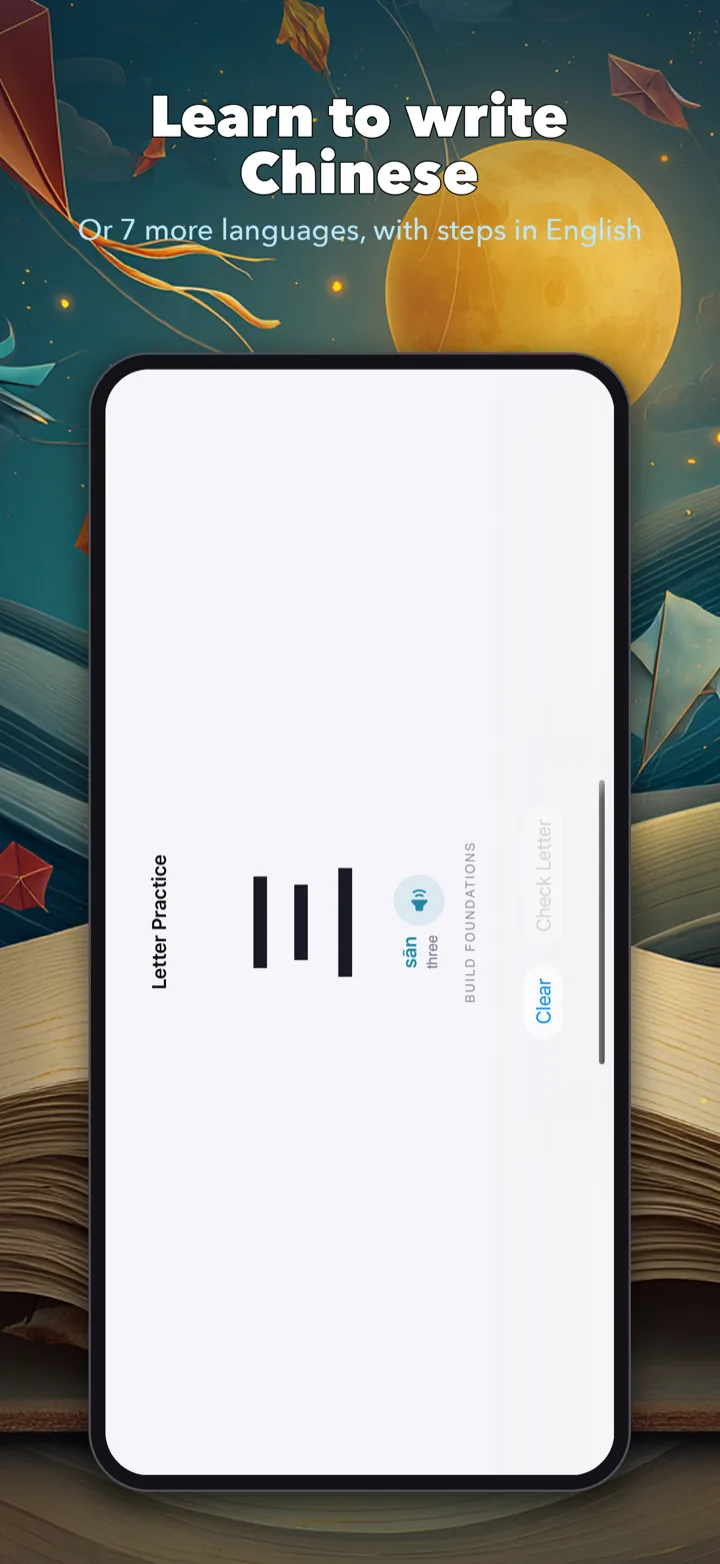
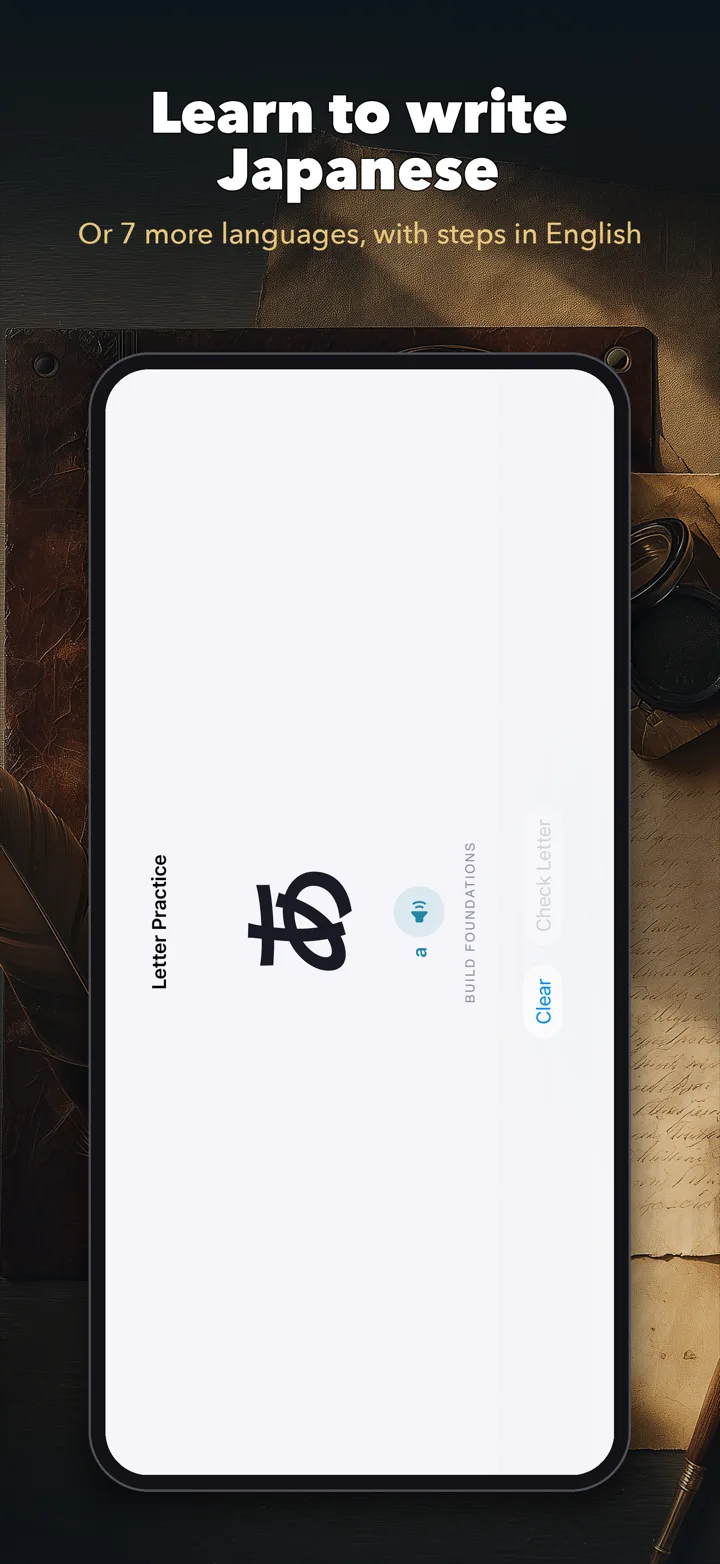
Inkla: English and German pages lead with Japanese (1.4.0 slot-1 store shots, alts, Japanese before Chinese in meta and search phrases)

diff --git a/de/apps/penlicence/index.html b/de/apps/penlicence/index.html
@@ -18,13 +18,13 @@
   <link rel="alternate" hreflang="zh-CN" href="https://bfgapps.co/zh-CN/apps/penlicence/">
   <link rel="alternate" hreflang="x-default" href="https://bfgapps.co/apps/penlicence/">
   <meta property="og:title" content="Inkla — Handschrift üben in 8 Sprachen">
-  <meta property="og:description" content="Buchstaben, Wörter und Sätze mit Feedback nach jedem Versuch. Geübt wird auf Deutsch, Englisch, Französisch, Spanisch, Rumänisch, in Hiragana, auf Chinesisch oder Hindi. Auf dem Gerät, keine Konten, keine Werbung.">
+  <meta property="og:description" content="Buchstaben, Wörter und Sätze mit Feedback nach jedem Versuch. Geübt wird auf Deutsch, Englisch, Französisch, Spanisch, Rumänisch, in japanischen Hiragana, auf Chinesisch oder Hindi. Auf dem Gerät, keine Konten, keine Werbung.">
   <meta property="og:url" content="https://bfgapps.co/de/apps/penlicence/">
   <meta property="og:type" content="website">
   <meta property="og:image" content="https://bfgapps.co/assets/penlicence-hero.png">
   <meta name="twitter:card" content="summary_large_image">
   <meta name="twitter:title" content="Inkla — Handschrift üben in 8 Sprachen">
-  <meta name="twitter:description" content="Buchstaben, Wörter und Sätze mit Feedback nach jedem Versuch. Geübt wird auf Deutsch, Englisch, Französisch, Spanisch, Rumänisch, in Hiragana, auf Chinesisch oder Hindi. Auf dem Gerät, keine Konten, keine Werbung.">
+  <meta name="twitter:description" content="Buchstaben, Wörter und Sätze mit Feedback nach jedem Versuch. Geübt wird auf Deutsch, Englisch, Französisch, Spanisch, Rumänisch, in japanischen Hiragana, auf Chinesisch oder Hindi. Auf dem Gerät, keine Konten, keine Werbung.">
   <meta name="twitter:image" content="https://bfgapps.co/assets/penlicence-hero.png">
   <link rel="icon" type="image/png" sizes="32x32" href="/favicon-32x32.png">
   <link rel="icon" type="image/png" sizes="16x16" href="/favicon-16x16.png">
@@ -179,7 +179,7 @@
         </div>
       </div>
       <div class="ap-hero-media" aria-label="Inkla Handschriftübung">
-        <img src="/assets/penlicence/01.webp" alt="Inkla Buchstabenübung mit dem chinesischen Schriftzeichen 三 (sān, „drei“), bereit zum Schreiben, Anleitung auf Deutsch" loading="eager">
+        <img src="/assets/penlicence/01.webp" alt="Japanisch schreiben lernen: Inkla Buchstabenübung mit dem Hiragana あ (a), bereit zum Schreiben, Anleitung auf Deutsch" loading="eager">
       </div>
     </section>
 
@@ -193,7 +193,7 @@
       <h2>Schreiben, verstehen, behalten</h2>
       <p>Kinder spuren nach und schreiben mit klaren Hilfslinien, erfahren, was jedes Wort bedeutet, und schreiben es dann aus dem Gedächtnis noch einmal. Die Übungen bleiben auf dem Gerät: keine Konten, keine Uploads, keine Werbung.</p>
       <div class="ap-screens" style="--shot-cols:5">
-        <div class="ap-shot"><img src="/assets/penlicence/01.webp" alt="Inkla Buchstabenübung mit dem chinesischen Schriftzeichen 三 (sān, „drei“) und Anleitung auf Deutsch" loading="lazy"></div>
+        <div class="ap-shot"><img src="/assets/penlicence/01.webp" alt="Inkla Buchstabenübung mit dem japanischen Hiragana あ (a) und Anleitung auf Deutsch" loading="lazy"></div>
         <div class="ap-shot"><img src="/assets/penlicence/02.webp" alt="Inkla „Wörter entdecken“ erklärt den Satz 日出了 („Die Sonne ist aufgegangen“) Wort für Wort, mit Pinyin und langsamer Aussprache" loading="lazy"></div>
         <div class="ap-shot"><img src="/assets/penlicence/03.webp" alt="Inkla Bedeutungs-Quiz fragt, was 小 (xiǎo) bedeutet, Frage 1 von 10" loading="lazy"></div>
         <div class="ap-shot"><img src="/assets/penlicence/04.webp" alt="Inkla Handschrift-Feedback erkennt einen Spiegelbuchstaben, mit 83 Punkten" loading="lazy"></div>
@@ -269,7 +269,7 @@
 
     <section class="ap-section">
       <h2>Passende Suchanfragen</h2>
-      <p>Inkla passt gut zu Suchanfragen wie <strong>Handschrift-App für Kinder</strong>, <strong>Buchstaben nachspuren App</strong>, <strong>Schreibschrift üben App</strong>, <strong>chinesische Schriftzeichen schreiben lernen</strong>, <strong>Hiragana schreiben üben</strong> und <strong>Apple Pencil Schreib-App für Kinder</strong>.</p>
+      <p>Inkla passt gut zu Suchanfragen wie <strong>Handschrift-App für Kinder</strong>, <strong>Buchstaben nachspuren App</strong>, <strong>Schreibschrift üben App</strong>, <strong>Hiragana schreiben üben</strong>, <strong>Japanisch schreiben lernen</strong>, <strong>chinesische Schriftzeichen schreiben lernen</strong> und <strong>Apple Pencil Schreib-App für Kinder</strong>.</p>
     </section>
 
     <footer>

diff --git a/apps/penlicence/index.html b/apps/penlicence/index.html
@@ -18,13 +18,13 @@
   <link rel="alternate" hreflang="zh-CN" href="https://bfgapps.co/zh-CN/apps/penlicence/">
   <link rel="alternate" hreflang="x-default" href="https://bfgapps.co/apps/penlicence/">
   <meta property="og:title" content="Inkla — Handwriting Practice in 8 Languages">
-  <meta property="og:description" content="Letters, words and sentences with feedback after every attempt. Practise English, French, German, Spanish, Romanian, hiragana, Chinese or Hindi. On-device, no accounts, no ads.">
+  <meta property="og:description" content="Letters, words and sentences with feedback after every attempt. Practise English, French, German, Spanish, Romanian, Japanese hiragana, Chinese or Hindi. On-device, no accounts, no ads.">
   <meta property="og:url" content="https://bfgapps.co/apps/penlicence/">
   <meta property="og:type" content="website">
   <meta property="og:image" content="https://bfgapps.co/assets/penlicence-hero.png">
   <meta name="twitter:card" content="summary_large_image">
   <meta name="twitter:title" content="Inkla — Handwriting Practice in 8 Languages">
-  <meta name="twitter:description" content="Letters, words and sentences with feedback after every attempt. Practise English, French, German, Spanish, Romanian, hiragana, Chinese or Hindi. On-device, no accounts, no ads.">
+  <meta name="twitter:description" content="Letters, words and sentences with feedback after every attempt. Practise English, French, German, Spanish, Romanian, Japanese hiragana, Chinese or Hindi. On-device, no accounts, no ads.">
   <meta name="twitter:image" content="https://bfgapps.co/assets/penlicence-hero.png">
   <link rel="icon" type="image/png" sizes="32x32" href="/favicon-32x32.png">
   <link rel="icon" type="image/png" sizes="16x16" href="/favicon-16x16.png">
@@ -179,7 +179,7 @@
         </div>
       </div>
       <div class="ap-hero-media" aria-label="Inkla handwriting practice">
-        <img src="/assets/penlicence/01.webp" alt="Inkla letter practice with the Chinese character 三 (sān, three) ready to write, steps in English" loading="eager">
+        <img src="/assets/penlicence/01.webp" alt="Learn to write Japanese: Inkla letter practice with the hiragana あ (a) ready to write, steps in English" loading="eager">
       </div>
     </section>
 
@@ -193,7 +193,7 @@
       <h2>Write it, understand it, remember it</h2>
       <p>Children trace and write with clear guides, find out what every word means, then write it again from memory. Practice stays on the device: no accounts, no uploads, no ads.</p>
       <div class="ap-screens" style="--shot-cols:5">
-        <div class="ap-shot"><img src="/assets/penlicence/01.webp" alt="Inkla letter practice with the Chinese character 三 (sān, three) and steps in English" loading="lazy"></div>
+        <div class="ap-shot"><img src="/assets/penlicence/01.webp" alt="Inkla letter practice with the Japanese hiragana あ (a) and steps in English" loading="lazy"></div>
         <div class="ap-shot"><img src="/assets/penlicence/02.webp" alt="Inkla Word Explorer breaking the sentence 日出了 down word by word, with pinyin and slow audio" loading="lazy"></div>
         <div class="ap-shot"><img src="/assets/penlicence/03.webp" alt="Inkla Meaning Quiz asking what 下 (xià) means, question 1 of 10" loading="lazy"></div>
         <div class="ap-shot"><img src="/assets/penlicence/04.webp" alt="Inkla handwriting feedback catching a mirror letter, with a score of 83" loading="lazy"></div>
@@ -269,7 +269,7 @@
 
     <section class="ap-section">
       <h2>Best search fits</h2>
-      <p>Inkla is a strong fit for searches like <strong>kids handwriting app</strong>, <strong>letter tracing app</strong>, <strong>cursive practice app</strong>, <strong>learn to write Chinese characters</strong>, <strong>hiragana writing practice</strong> and <strong>Apple Pencil writing app for kids</strong>.</p>
+      <p>Inkla is a strong fit for searches like <strong>kids handwriting app</strong>, <strong>letter tracing app</strong>, <strong>cursive practice app</strong>, <strong>hiragana writing practice</strong>, <strong>learn to write Japanese</strong>, <strong>learn to write Chinese characters</strong> and <strong>Apple Pencil writing app for kids</strong>.</p>
     </section>
 
     <footer>
